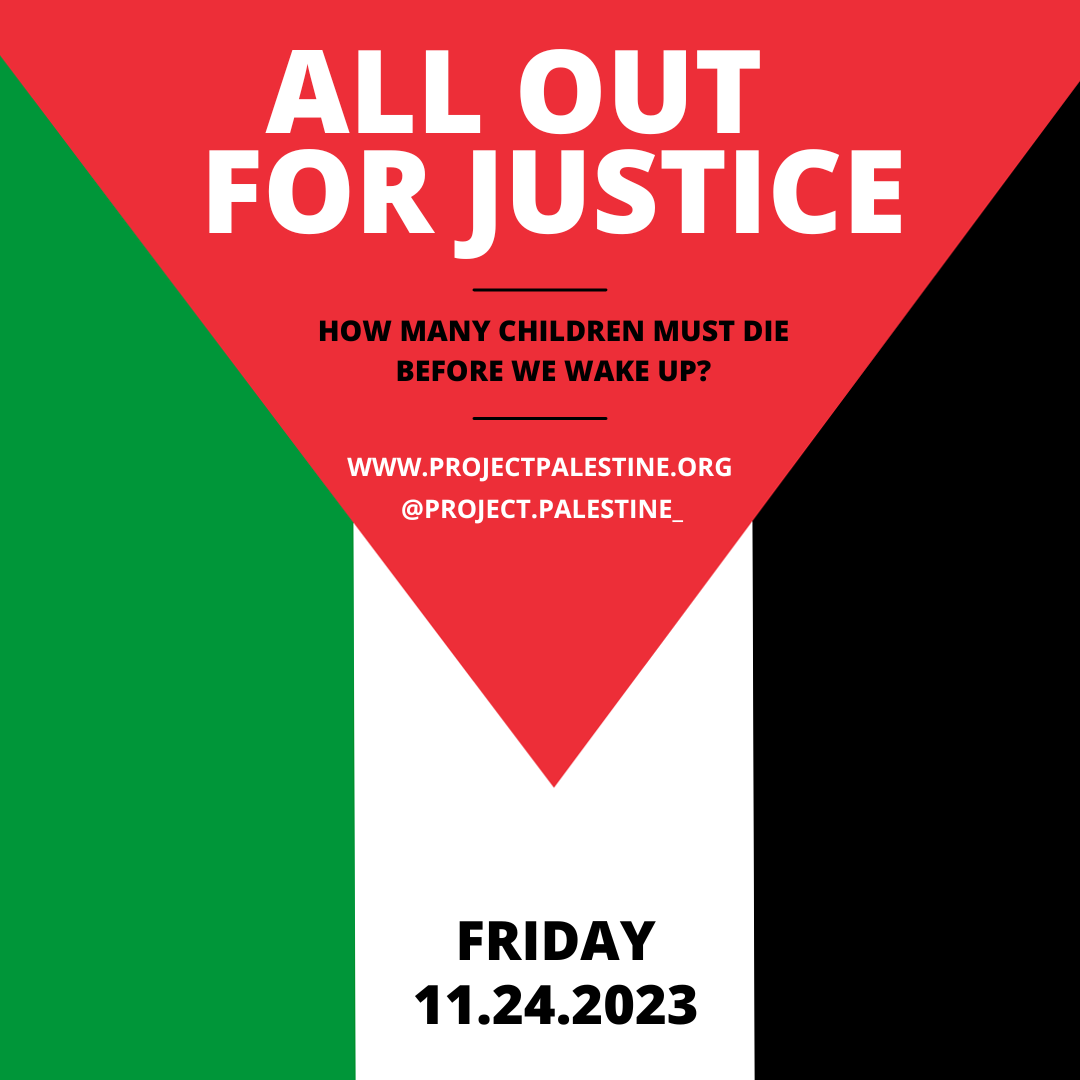
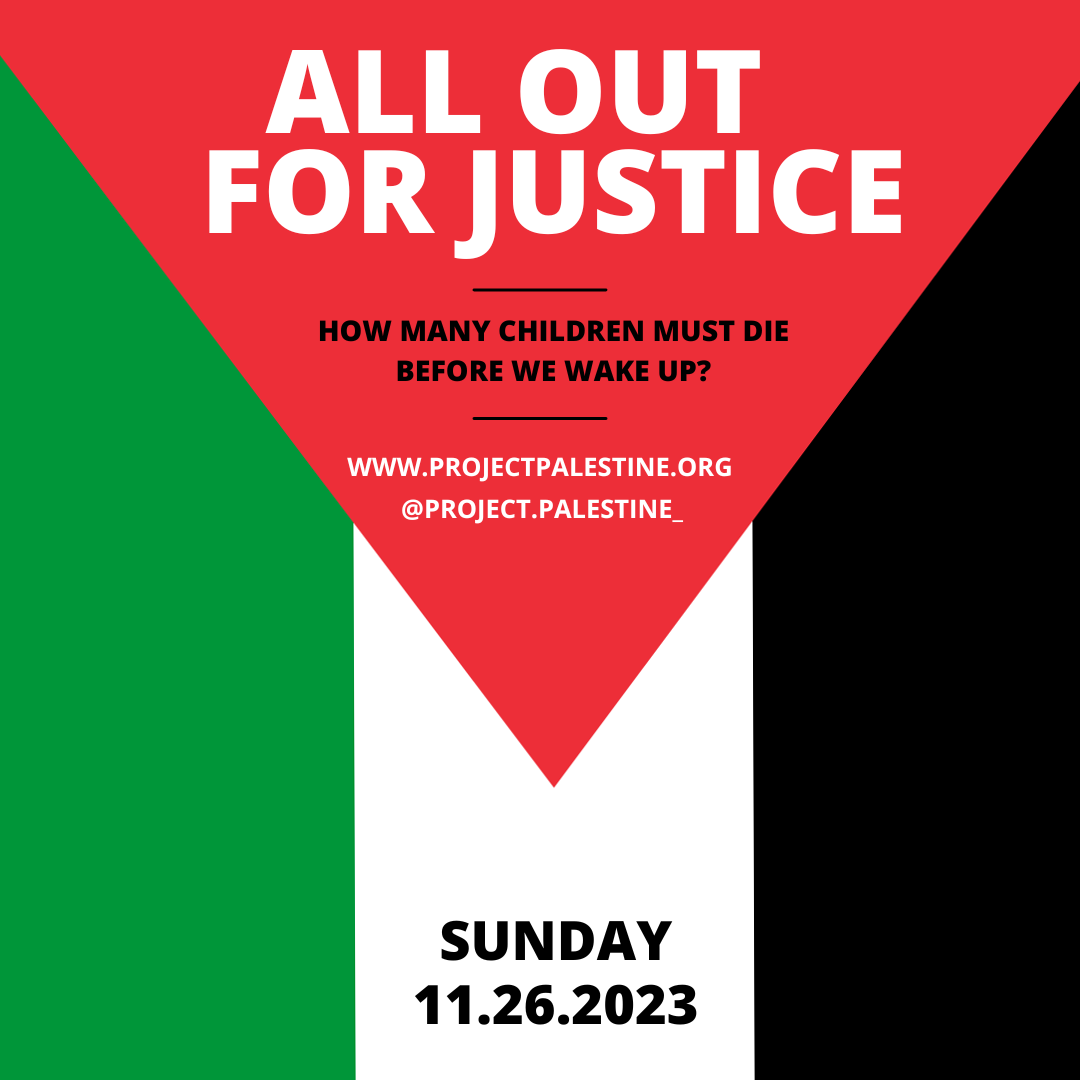
some adjustments

Changed region(s): [[0.3972, 0.8556, 0.6417, 0.9472]]

diff --git a/src/app/demonstrations/page.tsx b/src/app/demonstrations/page.tsx
@@ -6,12 +6,22 @@ import { Demonstration } from "@/constants";
 import { useRouter } from "next/navigation";
 import React, { useCallback, useMemo, useState } from "react";
 import march from "../../assets/march.png";
+import floodManhatan from "../../assets/floodManhatan.png";
 
 const Demonstrations = () => {
   const demonstrations: Array<Demonstration> = useMemo(() => {
     return [
       {
-        date: "Nov 24th, 2023",
+        date: "Nov 22th, 2023",
+        location: "NYC",
+        description:
+          "lood Manhattan For Gaza! Wednesday November 22nd. 2:00 pm. Union Square. For updates on the march follow @wolpalestine. L N Q R W 4 5 6 trains to 14th St.🇵🇸 In the past 44 days according to the Palestinian Ministry of Health at least 13,300 Palestinians have been massacred in Gaza by the israeli occupation with U.S. made bombs paid for with our taxes.",
+        title: "Flood Manhattan",
+        image: floodManhatan,
+        website: "https://www.instagram.com/p/Cz472YYgFyO/",
+      },
+      {
+        date: "Nov 26th, 2023",
         location: "Everywhere",
         description:
           "13,000+ innocent people have been killed in Gaza. More than 5,500 children. Israel isn't just committing a masacre against Palestine, it's one against humanity. Time to go all out.",
@@ -61,7 +71,7 @@ const Demonstrations = () => {
             All peace and liberations organizations need to unite, we will
             display our collective effort here.
           </span>
-          <div className="mt-10">
+          <div className="mt-10 max-w-2xl">
             <SearchBar
               searchableContent={demonstrations.map((x) => x.title)}
               onSearch={onSearch}
@@ -72,7 +82,7 @@ const Demonstrations = () => {
           <span className="mt-10 text-xl bg-green-400 p-1 rounded-sm">
             Upcoming demonstrations
           </span>
-          <div className="mt-8">
+          <div className="mt-8 flex-row flex space-x-3">
             {filteredResults.map((x, index) => (
               <DemonstrationCard
                 key={index}

diff --git a/src/components/common/demonstrationCard.tsx b/src/components/common/demonstrationCard.tsx
@@ -35,11 +35,25 @@ const DemonstrationCard = ({ demonstration }: IDemonstrationCardProps) => {
           <Stack mt="6" spacing="3">
             <Heading size="md">{title}</Heading>
             <span
-              style={{ fontSize: 14, maxHeight: 50, minHeight: 50 }}
-              className="mb-4"
+              style={{
+                fontSize: 14,
+                maxWidth: 300,
+                minWidth: 300,
+                lineHeight: "1.4em", // Example line height
+                maxHeight: "5.7em", // 1.4em (line height) * 3 (number of lines)
+                overflow: "hidden",
+                display: "-webkit-box",
+                WebkitLineClamp: 4,
+                WebkitBoxOrient: "vertical",
+                textOverflow: "ellipsis",
+              }}
             >
               {description}
             </span>
+          </Stack>
+        </CardBody>
+        <CardFooter>
+          <Stack spacing={3}>
             <div className="flex-row flex items-center mt-5">
               <Text color="blue.600" fontSize="xl">
                 <FaRegCalendarAlt size={20} />
@@ -56,19 +70,14 @@ const DemonstrationCard = ({ demonstration }: IDemonstrationCardProps) => {
                 {location}
               </Text>
             </div>
+            <ButtonGroup spacing="2">
+              <Link href={website} target="_blank">
+                <Button variant="solid" colorScheme="green" cursor={"pointer"}>
+                  Learn More
+                </Button>
+              </Link>
+            </ButtonGroup>
           </Stack>
-        </CardBody>
-        <CardFooter>
-          <ButtonGroup spacing="2">
-            <Link
-              href={website}
-              target="_blank"
-            >
-              <Button variant="solid" colorScheme="green">
-                Learn More
-              </Button>
-            </Link>
-          </ButtonGroup>
         </CardFooter>
       </Card>
     )

diff --git a/src/app/home/page.tsx b/src/app/home/page.tsx
@@ -10,6 +10,7 @@ import { FcIdea } from "react-icons/fc";
 
 const Home = () => {
   const router = useRouter();
+  const [hovered, setHovered] = React.useState(false);
   return (
     <div className="h-70-screen w-full flex flex-col-reverse md:flex-row items-center justify-center gap-6 mb-10  mt-40">
       <div className="bg-app-light flex flex-col justify-start content-start gap-4 p-8 m-8 ">
@@ -75,18 +76,30 @@ const Home = () => {
               <span className="lg:mr-10 md:mr-10 xs:mr-2 mt-2">News</span>
             </div>
             <div className="flex flex-col ">
-              <Card
-                w={150}
-                h={150}
-                p={4}
-                marginRight={10}
-                marginTop={10}
-                justifyContent={"center"}
-                alignItems={"center"}
+              <div
+                className="flex flex-col hover:animate-bounce"
+                onMouseEnter={() => setHovered(true)}
+                onMouseLeave={() => setHovered(false)}
               >
-                <FcIdea size={100} />
-              </Card>
-              <span className="lg:mr-10 md:mr-10 xs:mr-2 mt-2">Education</span>
+                <Card
+                  w={150}
+                  h={150}
+                  p={4}
+                  marginRight={10}
+                  marginTop={10}
+                  justifyContent={"center"}
+                  alignItems={"center"}
+                >
+                  {hovered ? <span> Coming Soon </span> : <FcIdea size={100} />}
+                </Card>
+                <span
+                  className={`lg:mr-10 md:mr-10 xs:mr-2 mt-2 ${
+                    hovered && "animate-pulse"
+                  } `}
+                >
+                  {hovered ? "" : "Education"}
+                </span>
+              </div>
             </div>
           </div>
         </div>

diff --git a/src/app/demonstrations/alloutforjustice/about/page.tsx b/src/app/demonstrations/alloutforjustice/about/page.tsx
@@ -9,6 +9,9 @@ import { useCallback, useRef, useState } from "react";
 import { IoMdArrowRoundBack } from "react-icons/io";
 import { firebase_app } from "@/firebase/config";
 import Cookies from "js-cookie";
+import Image from "next/image";
+import palestine from "../../../../assets/palestine.png";
+import gaza from "../../../../assets/freeGaza.png";
 
 export default function About() {
   const [isParticipate, setIsParticipate] = useState(false);
@@ -67,7 +70,26 @@ export default function About() {
         </span>
       </header>
       <div className="p-40 pt-10">
-        <span className="text-black text-md">
+        <Image
+          src={palestine}
+          alt={"Image of palstine"}
+          className={`lg:absolute md:relative sm:relative xs:relative lg:right-96 lg:top-60`}
+        />
+        {/* <Image
+          src={palestine}
+          alt={"Image of palstine"}
+          className={`lg:absolute md:relative sm:relative xs:relative lg:right-600 lg:top-96 pl-40 rotate-0`}
+        />
+
+        <Image
+          src={gaza}
+          alt={
+            "sticker of a hand in the color of the palestinian flag with free Gaza and free Palestine written on it"
+          }
+          className={`lg:absolute md:relative sm:relative xs:relative lg:right-600 lg:top-200 pl-96 rotate-0`}
+        /> */}
+
+        <span className="text-black text-lg">
           Nothing justifies the killing of innocent people of any race or
           religion
           <br />

diff --git a/src/app/demonstrations/alloutforjustice/page.tsx b/src/app/demonstrations/alloutforjustice/page.tsx
@@ -10,7 +10,7 @@ export default function Home() {
   const retrieveData = useCallback(async () => {
     const db = getFirestore(firebase_app);
     const querySnapshot = await getDocs(collection(db, "Signups"));
-    setCounter(querySnapshot.size + 1252);
+    setCounter(querySnapshot.size + 252);
   }, []);
 
   useEffect(() => {
@@ -31,7 +31,7 @@ export default function Home() {
             className=" text-3xl font-bold tracking-tight animate-colorChange sm:text-5xl p-0 -mt-24 "
             style={{ animationDelay: "3s" }}
           >
-            11.24.2023
+            11.26.2023
           </h1>
           <h1 className=" text-3xl font-bold tracking-tight sm:text-6xl p-0 mt-8">
             All Out

diff --git a/src/app/news/page.tsx b/src/app/news/page.tsx
@@ -35,7 +35,7 @@ const News = () => {
               <span className="flex pt-2 font-semibold text-xl">
                 On the ground in Gaza
               </span>
-              <div className="grid lg:grid-cols-5 xs:grid-cols-4 -mt-4 justify-evenly ">
+              <div className="grid lg:grid-cols-5 xs:grid-cols-4 xxs:grid-cols-4 -mt-4 justify-evenly ">
                 <Link
                   href="https://www.instagram.com/wizard_bisan1/"
                   target="_blank"

diff --git a/tailwind.config.js b/tailwind.config.js
@@ -44,6 +44,7 @@ module.exports = {
       },
       screens: {
         xs: "320px", // Extra small screens
+        xxs: "150px", // Extra small screens
       },
       height: {
         "50vh": "50vh",
